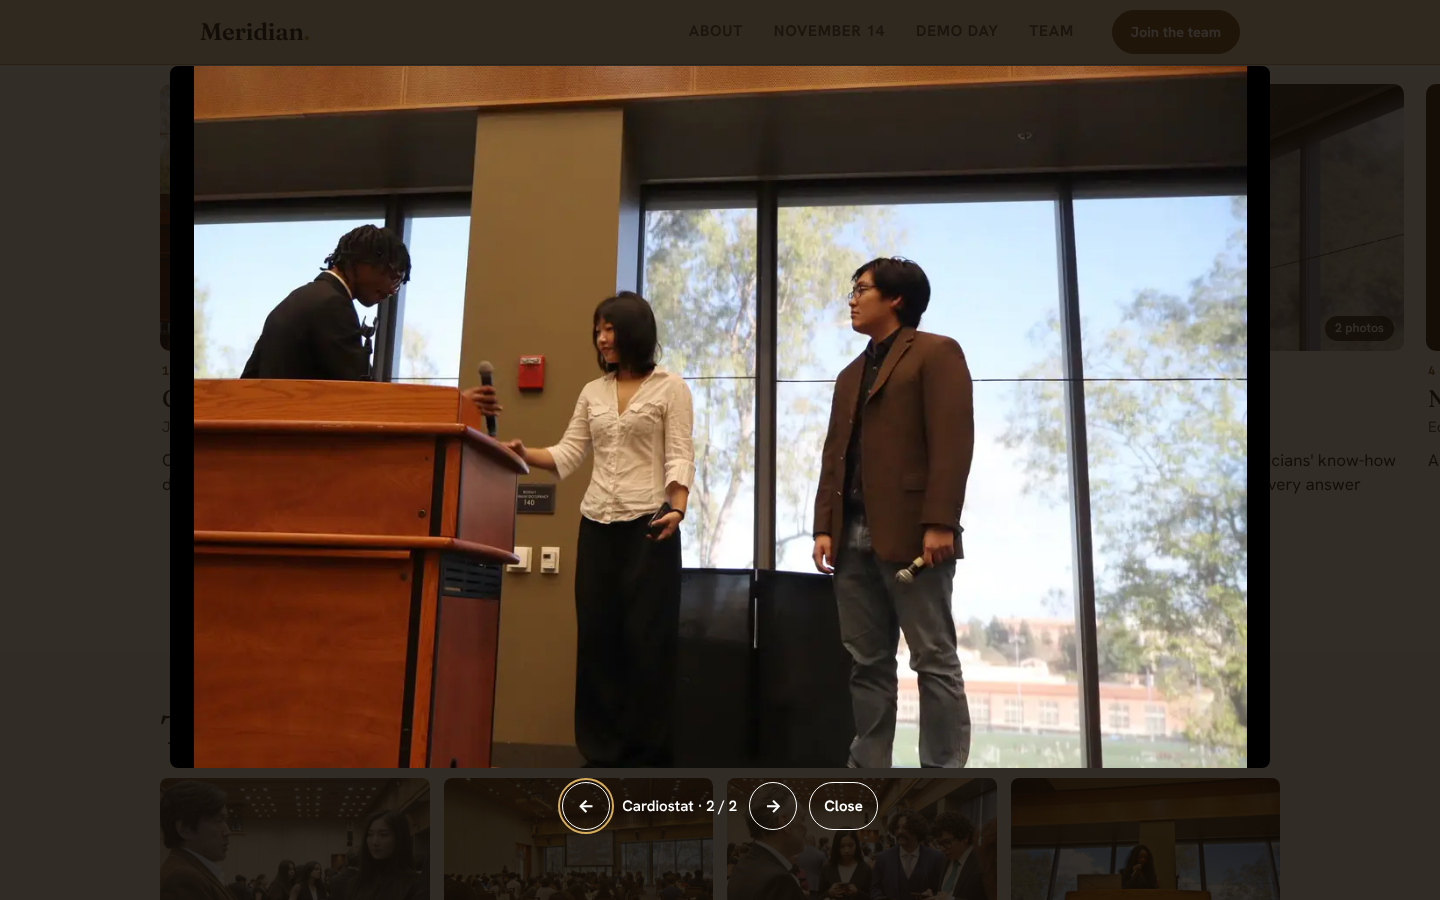
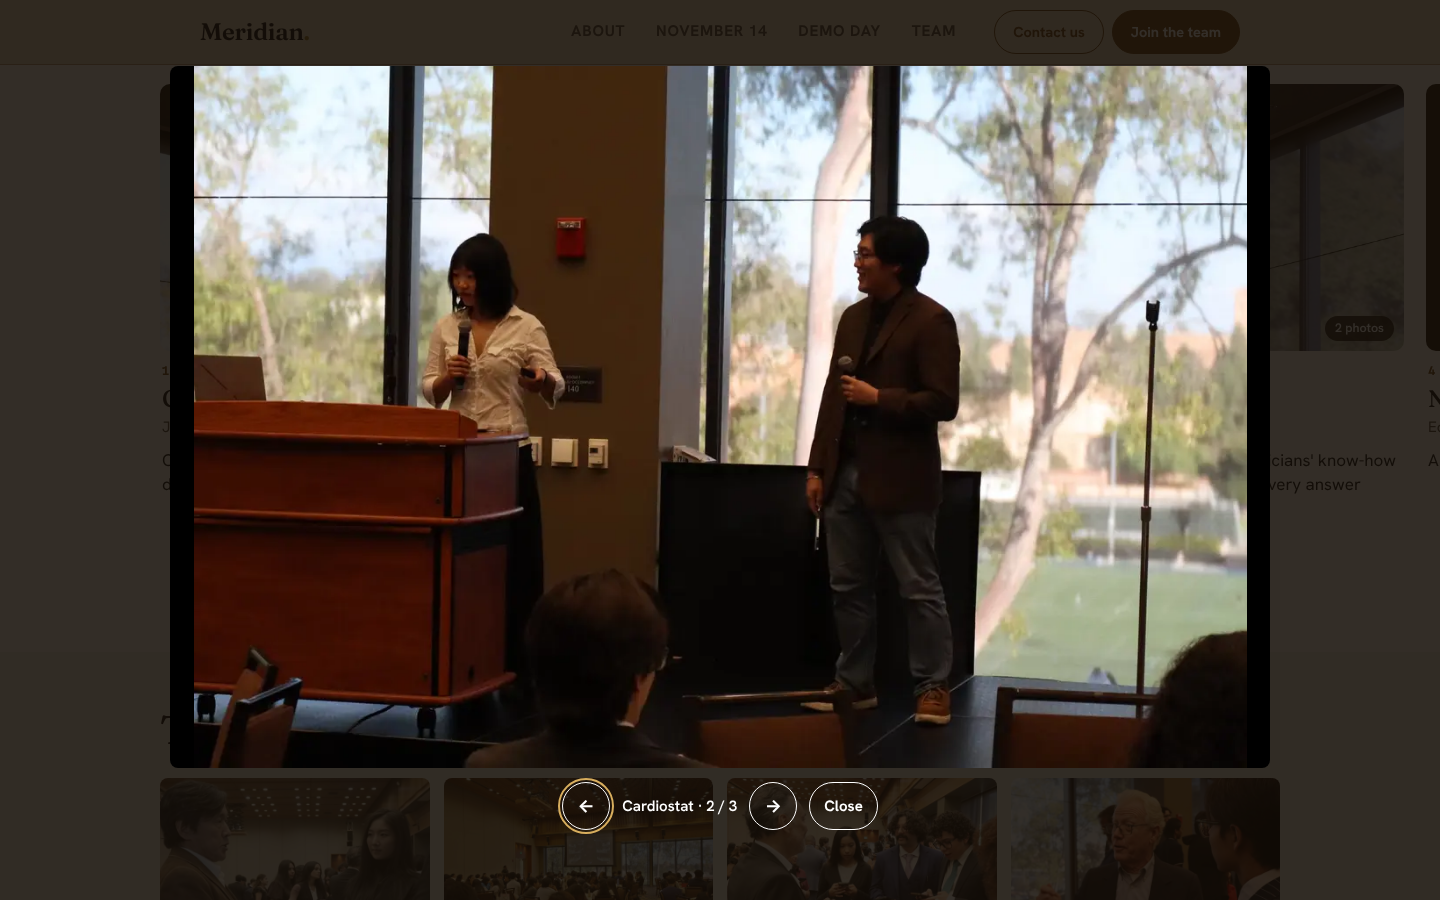
400 students, new tagline, Contact us button and form, sharper Demo Day covers
- Proof number and sentences say 400, set in the sans face
- Tagline: connects executives with student talent
- Header: Contact us beside Join the team; contact page has a form
- Cardiostat, Squaloo and PRISM lead with clearer photos

Claude-Session: https://claude.ai/code/session_01Sz375vWki4iWor3jhJsz7K

diff --git a/app/site.css b/app/site.css
@@ -861,7 +861,12 @@ h2.m-eyebrow { line-height: 1.6; }
 /* Buttons: one style. */
 .v-btn, .v-page main a.v-btn { display: inline-flex; align-items: center; justify-content: center; min-height: 48px; padding: 12px 26px; border-radius: 999px; background: var(--accent, #7A4F1C); color: #fff; border: 1px solid var(--accent, #7A4F1C); font: 700 16px/1.2 var(--font-hanken), system-ui, sans-serif; text-decoration: none; letter-spacing: 0; transition: background-color .2s ease; }
 .v-btn:hover, .v-page main a.v-btn:hover { background: #5C3A12; border-color: #5C3A12; color: #fff; }
-.m-header .v-btn-head.m-register { min-height: 44px; padding: 8px 18px; font-size: 14.5px; text-transform: none; white-space: nowrap; }
+.m-header .v-btn-head { min-height: 44px; padding: 8px 18px; font-size: 14.5px; text-transform: none; white-space: nowrap; }
+.v-head-actions { display: flex; align-items: center; gap: 8px; }
+.v-btn.v-btn-line { background: transparent; color: #7A4F1C; }
+.v-btn.v-btn-line:hover { background: #7A4F1C; color: #fff; }
+@media (max-width: 900px) { .m-header .v-btn-head { padding: 8px 13px; font-size: 14px; } }
+@media (max-width: 380px) { .m-header .v-btn-head { padding: 8px 10px; font-size: 13px; } .v-head-actions { gap: 6px; } }
 .v-join p + p { margin-top: 22px; }
 
 /* Hero: the full room, full width. Phones: photo, then the words. Wider: words over the photo. */
@@ -882,12 +887,12 @@ h2.m-eyebrow { line-height: 1.6; }
 .v-band { background: var(--espresso); color: #F6EEDF; padding: 26px 0; }
 .v-proof { list-style: none; margin: 0; padding: 0; display: grid; grid-template-columns: 1fr; gap: 14px; }
 .v-proof li { display: flex; align-items: baseline; gap: 10px; }
-.v-proof-n { font-family: var(--font-fraunces), Georgia, serif; font-size: 32px; line-height: 1; color: #fff; letter-spacing: -0.01em; white-space: nowrap; }
+.v-proof-n { font-family: var(--font-hanken), system-ui, sans-serif; font-weight: 700; font-variant-numeric: lining-nums tabular-nums; font-size: 34px; line-height: 1; color: #fff; letter-spacing: -0.02em; white-space: nowrap; }
 .v-proof-l { font-size: 17px; color: #E9DCC6; }
 @media (min-width: 701px) {
   .v-band { padding: 34px 0; }
   .v-proof { grid-template-columns: repeat(3, auto); justify-content: space-between; gap: 32px; }
-  .v-proof-n { font-size: 44px; }
+  .v-proof-n { font-size: 48px; }
   .v-proof-l { font-size: 19px; }
 }
 
@@ -968,7 +973,7 @@ button.v-demo-photo { cursor: pointer; }
 .v-flow li:not(:last-child)::after { content: '·'; margin: 0 10px; color: var(--accent); }
 @media (min-width: 701px) { .v-flow { font-size: 18px; max-width: 80ch; } }
 @media (min-width: 701px) { .v-wide-short { aspect-ratio: 21 / 9; object-fit: cover; object-position: 50% 42%; } }
-@media (min-width: 901px) { .m-header .v-btn-head.m-register { order: 3; margin-left: 10px; } }
+@media (min-width: 901px) { .m-header .v-head-actions { order: 3; margin-left: 10px; } }
 .v-names-2 { margin-top: 20px; }
 .v-names-2 li { display: flex; flex-wrap: wrap; gap: 2px 14px; align-items: baseline; }
 .v-names-2 li span { font-size: 16px; color: var(--v-soft); }
@@ -1013,3 +1018,15 @@ button.v-demo-photo { cursor: pointer; }
 
 /* Team page photo: not the full width on wide screens. */
 @media (min-width: 701px) { .v-top .v-wide { max-width: 760px; } }
+
+/* Contact form. */
+.v-form { display: grid; gap: 6px; max-width: 560px; margin: 26px 0 8px; }
+.v-form label { margin-top: 12px; font-size: 15px; font-weight: 600; color: var(--v-ink); }
+.v-form input, .v-form textarea { width: 100%; min-height: 48px; padding: 12px 14px; border: 1px solid #A8895C; border-radius: 8px; background: #fff; color: var(--v-ink); font: inherit; font-size: 16px; }
+.v-form textarea { min-height: 140px; resize: vertical; }
+.v-form input:focus-visible, .v-form textarea:focus-visible { outline: 2px solid var(--accent); outline-offset: 1px; }
+.v-form .v-btn { margin-top: 18px; justify-self: start; cursor: pointer; }
+.v-form .v-btn:disabled { opacity: .6; cursor: default; }
+.v-form-error { margin-top: 12px; color: var(--v-ink); }
+
+@media (max-width: 350px) { .m-header-in { padding-left: 12px; padding-right: 12px; } .m-header .v-btn-head { padding: 8px 9px; font-size: 12.5px; } }

diff --git a/components/ContactForm.tsx b/components/ContactForm.tsx
@@ -1,15 +1,10 @@
 'use client';
 
 import { useState, FormEvent } from 'react';
-import { REGISTER_ENDPOINT, CONTACT_EMAIL_PUBLIC } from '@/config';
+import { REGISTER_ENDPOINT } from '@/config';
+import { EMAIL } from '@/data/recap';
 
-const field = { display: 'block', width: '100%', padding: '12px 14px', border: '1px solid var(--line-strong)', background: 'var(--surface)', font: 'inherit', fontSize: 16, color: 'var(--ink)', borderRadius: 2 } as const;
-const label = { display: 'block', fontFamily: 'var(--font-mono), monospace', fontSize: 12, letterSpacing: '.1em', textTransform: 'uppercase', margin: '18px 0 6px', color: 'var(--ink)' } as const;
-
-/**
- * Partner and executive inquiry form (Formspree). Required: name,
- * organization, email, and what they would like to do with Meridian.
- */
+/** Contact form (Formspree). Name, email and a message; organization is optional. */
 export function ContactForm() {
   const [state, setState] = useState<'idle' | 'sending' | 'sent' | 'error'>('idle');
 
@@ -29,42 +24,27 @@ export function ContactForm() {
   }
 
   if (state === 'sent') {
-    return <p className="m-lead" role="status">Thank you. Jaxton Wright will write to you directly.</p>;
+    return <p className="v-lead" role="status">Thank you. We will write back.</p>;
   }
 
   return (
-    <form onSubmit={onSubmit} style={{ maxWidth: 620 }}>
-      <label style={label} htmlFor="f-name">Name</label>
-      <input style={field} id="f-name" name="name" required autoComplete="name" />
-      <label style={label} htmlFor="f-org">Organization</label>
-      <input style={field} id="f-org" name="organization" required autoComplete="organization" />
-      <label style={label} htmlFor="f-email">Email</label>
-      <input style={field} id="f-email" name="email" type="email" required autoComplete="email" />
-      <label style={label} htmlFor="f-role">Role (optional)</label>
-      <input style={field} id="f-role" name="role" autoComplete="organization-title" />
-      <label style={label} htmlFor="f-type">Which describes you (optional)</label>
-      <select style={field} id="f-type" name="describes">
-        <option value="">Choose one</option>
-        <option>Company</option>
-        <option>Campus office or department</option>
-        <option>Community organization</option>
-        <option>University</option>
-        <option>Investor</option>
-        <option>Other</option>
-      </select>
-      <label style={label} htmlFor="f-msg">What would you like to do with Meridian?</label>
-      <textarea style={{ ...field, minHeight: 120 }} id="f-msg" name="message" required />
-      <p className="m-small" style={{ marginTop: 14 }}>We read every message and reply personally.</p>
+    <form className="v-form" onSubmit={onSubmit}>
+      <label htmlFor="f-name">Name</label>
+      <input id="f-name" name="name" required autoComplete="name" />
+      <label htmlFor="f-email">Email</label>
+      <input id="f-email" name="email" type="email" required autoComplete="email" />
+      <label htmlFor="f-org">Company or school (optional)</label>
+      <input id="f-org" name="organization" autoComplete="organization" />
+      <label htmlFor="f-msg">Message</label>
+      <textarea id="f-msg" name="message" required rows={5} />
       {state === 'error' && (
-        <p role="alert" style={{ marginTop: 14 }}>
-          Something went wrong. Please write to <a className="m-link" href={`mailto:${CONTACT_EMAIL_PUBLIC}`}>{CONTACT_EMAIL_PUBLIC}</a> directly.
+        <p role="alert" className="v-form-error">
+          That did not send. Please write to <a href={`mailto:${EMAIL}`}>{EMAIL}</a>.
         </p>
       )}
-      <div style={{ marginTop: 22 }}>
-        <button className="btn btn-ink" type="submit" disabled={state === 'sending'}>
-          {state === 'sending' ? 'Sending' : 'Send'}
-        </button>
-      </div>
+      <button className="v-btn" type="submit" disabled={state === 'sending'}>
+        {state === 'sending' ? 'Sending' : 'Send'}
+      </button>
     </form>
   );
 }

diff --git a/data/recap.ts b/data/recap.ts
@@ -1,13 +1,14 @@
 // Facts about Meridian and its first conference. Every page reads these, so a
 // change here changes the whole site. Use only facts Jax has confirmed.
 
-export const COMPANY_LINE = 'Meridian is a company that connects executives with the next generation of talent.';
+export const COMPANY_LINE = 'Meridian is a company that connects executives with student talent.';
 /** Footer tagline. */
-export const TAGLINE = 'A company that connects executives with the next generation of talent.';
+export const TAGLINE = 'A company that connects executives with student talent.';
 export const HEADLINE = 'Executives and students. Same room.';
 
-/** The proof, in the one wording used everywhere. Always "close to 400". */
-export const STUDENTS = 'close to 400';
+/** 400, everywhere, not "close to 400" (Jax, Nov 21). */
+export const STUDENTS = '400';
+export const STUDENTS_NUMBER = '400';
 export const EXECUTIVES = 20;
 export const STARTUPS = 12;
 export const PROOF_LINE = `Our first conference: ${STUDENTS} students and ${EXECUTIVES} executives at UCLA, in collaboration with USC.`;
@@ -108,11 +109,11 @@ export interface Startup {
 const d = (n: string) => `/opt/nov14/demo/${n}.webp`;
 export const STARTUPS_LIST: Startup[] = [
   { slug: 'cardiostat', name: 'Cardiostat', founders: 'Jonathan Chung and SJ Lim (UCLA)', line: 'One patch that reads the heart and delivers aspirin during a heart attack.',
-    photos: [{ src: d('cardiostat-1'), alt: 'The Cardiostat founders pitching on stage' }, { src: d('cardiostat-2'), alt: 'The Cardiostat founders on stage' }] },
+    photos: [{ src: d('cardiostat-3'), alt: 'A Cardiostat founder pitching with a microphone' }, { src: d('cardiostat-1'), alt: 'The two Cardiostat founders pitching on stage' }, { src: d('cardiostat-2'), alt: 'The Cardiostat founders on stage' }] },
   { slug: 'zesty', name: 'Zesty', founders: 'Delaney Duan, Boran Wang and William Zhang (UCLA)', line: 'An app that plans healthy meals students grew up on, with one-tap grocery ordering.',
     photos: [{ src: d('zesty-1'), alt: 'A Zesty founder pitching with a microphone' }, { src: d('zesty-2'), alt: 'The Zesty team on stage' }] },
   { slug: 'squaloo', name: 'Squaloo', founders: 'Marshal Aldoph (USC)', line: "Offline AI that keeps veteran technicians' know-how at the machine and shows where every answer came from.",
-    photos: [{ src: d('squaloo-1'), alt: 'The Squaloo founder pitching at the podium' }, { src: d('squaloo-2'), alt: 'The Squaloo founder smiling at the podium' }] },
+    photos: [{ src: d('squaloo-2'), alt: 'The Squaloo founder smiling at the podium' }, { src: d('squaloo-1'), alt: 'The Squaloo founder pitching at the podium' }] },
   { slug: 'nyc-esports', name: 'NYC High School Esports League', founders: 'Edison Zhong (USC), pitched by Zoom', line: 'A high school esports league in New York City.', photos: [] },
   { slug: 'cat-counselor', name: 'Cat Counselor', founders: 'Yin Qiao Zhang (USC) and team', line: 'A cozy mobile game that turns anxiety-coping worksheets into minigames.',
     photos: [{ src: d('cat-counselor-1'), alt: 'The Cat Counselor founder pitching at the podium, with a slide beside her' }, { src: d('cat-counselor-2'), alt: 'The Cat Counselor pitch, seen from the side of the stage' }] },

diff --git a/components/Nav.tsx b/components/Nav.tsx
@@ -5,7 +5,7 @@ import { usePathname } from 'next/navigation';
 import { SITE_NAME } from '@/config';
 import { JOIN_TEAM_MAILTO } from '@/data/recap';
 
-// Header on every page: wordmark, four sections, Join the team.
+// Header on every page: wordmark, four sections, Contact us and Join the team.
 // Desktop: the sections sit in the header. Phones: the header keeps the wordmark and
 // Join the team, and the sections show as a row of tabs under it.
 const items = [
@@ -39,9 +39,10 @@ export function Nav({ trail }: { trail?: { label: string; href?: string }[]; hom
           <a className="m-logo" href="/" aria-label={`${SITE_NAME} home`}>
             {SITE_NAME}<span>.</span>
           </a>
-          <a className="v-btn v-btn-head m-register" href={JOIN_TEAM_MAILTO}>
-            Join the team
-          </a>
+          <span className="v-head-actions">
+            <a className="v-btn v-btn-head v-btn-line" href="/contact/">Contact us</a>
+            <a className="v-btn v-btn-head" href={JOIN_TEAM_MAILTO}>Join the team</a>
+          </span>
           <nav className="m-nav" aria-label="Main">
             {items.map((i) => (
               <a key={i.href} className="m-navlink" href={i.href} aria-current={isCurrent(i.match) ? 'page' : undefined}>

diff --git a/app/contact/page.tsx b/app/contact/page.tsx
@@ -4,6 +4,7 @@ import { Nav } from '@/components/Nav';
 import { Footer } from '@/components/Footer';
 import { JoinTeam, PartnerLine } from '@/components/site/recap';
 import { EMAIL, INSTAGRAM, LINKEDIN } from '@/data/recap';
+import { ContactForm } from '@/components/ContactForm';
 
 export const metadata: Metadata = pageMeta(
   'Contact',
@@ -19,8 +20,9 @@ export default function ContactPage() {
         <section className="v-section v-top">
           <div className="v-wrap">
             <p className="v-eyebrow">Contact</p>
-            <h1 className="v-h1">Write to us.</h1>
-            <p className="v-lead"><a href={`mailto:${EMAIL}`}>{EMAIL}</a></p>
+            <h1 className="v-h1">Contact us.</h1>
+            <p className="v-lead">Send a message here, or write to <a href={`mailto:${EMAIL}`}>{EMAIL}</a>.</p>
+            <ContactForm />
             <p className="v-links">
               <a href={INSTAGRAM.url} target="_blank" rel="noopener noreferrer">Instagram {INSTAGRAM.handle}</a>
               <a href={LINKEDIN.url} target="_blank" rel="noopener noreferrer">LinkedIn</a>

diff --git a/components/site/recap.tsx b/components/site/recap.tsx
@@ -1,5 +1,5 @@
 import {
-  EXECS_IN_ROOM, PARTNERS, ALSO_NOV14, WORKED_WITH, PHOTOS, PHOTO_CREDIT, STUDENTS, EXECUTIVES, STARTUPS,
+  EXECS_IN_ROOM, PARTNERS, ALSO_NOV14, WORKED_WITH, PHOTOS, PHOTO_CREDIT, STUDENTS, STUDENTS_NUMBER, EXECUTIVES, STARTUPS,
   CONFERENCE_DATE, JOIN_TEAM_MAILTO, JOIN_TEAM_LINE, PARTNER_LINE, EMAIL, EXEC_GROUP_PHOTO, TEAM_PHOTO,
   FOUNDER_LINE, ORIGIN_STORY, FOUNDER_INSTAGRAM, LINKEDIN, type ExecInRoom,
 } from '@/data/recap';
@@ -13,9 +13,8 @@ export const RECAP_LINES = [
 
 /** The three numbers. */
 export function Proof() {
-  const cap = STUDENTS.charAt(0).toUpperCase() + STUDENTS.slice(1);
   const items = [
-    { n: cap, l: 'students' },
+    { n: STUDENTS_NUMBER, l: 'students' },
     { n: String(EXECUTIVES), l: 'executives' },
     { n: String(STARTUPS), l: 'student startups' },
   ];

diff --git a/app/layout.tsx b/app/layout.tsx
@@ -31,8 +31,8 @@ const splineMono = Spline_Sans_Mono({
 // One canonical description everywhere (meta, og, twitter).
 const DESCRIPTION = `${COMPANY_LINE} ${PROOF_LINE}`;
 
-const HOME_TITLE = 'Meridian | Connecting Executives With the Next Generation of Talent';
-const SHARE_TITLE = 'Meridian: Connecting Executives With the Next Generation of Talent';
+const HOME_TITLE = 'Meridian | Connecting Executives With Student Talent';
+const SHARE_TITLE = 'Meridian: Connecting Executives With Student Talent';
 
 
 export const metadata: Metadata = {
